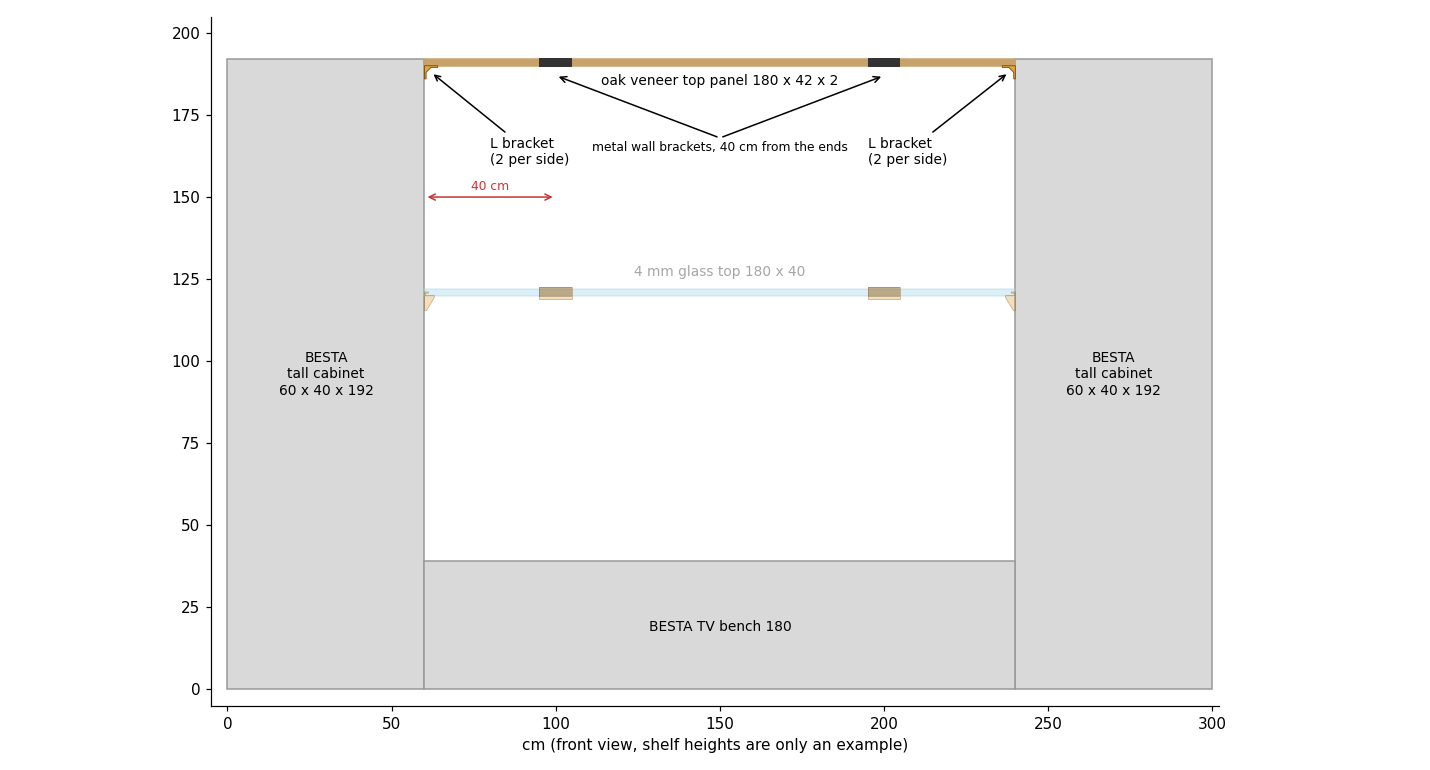
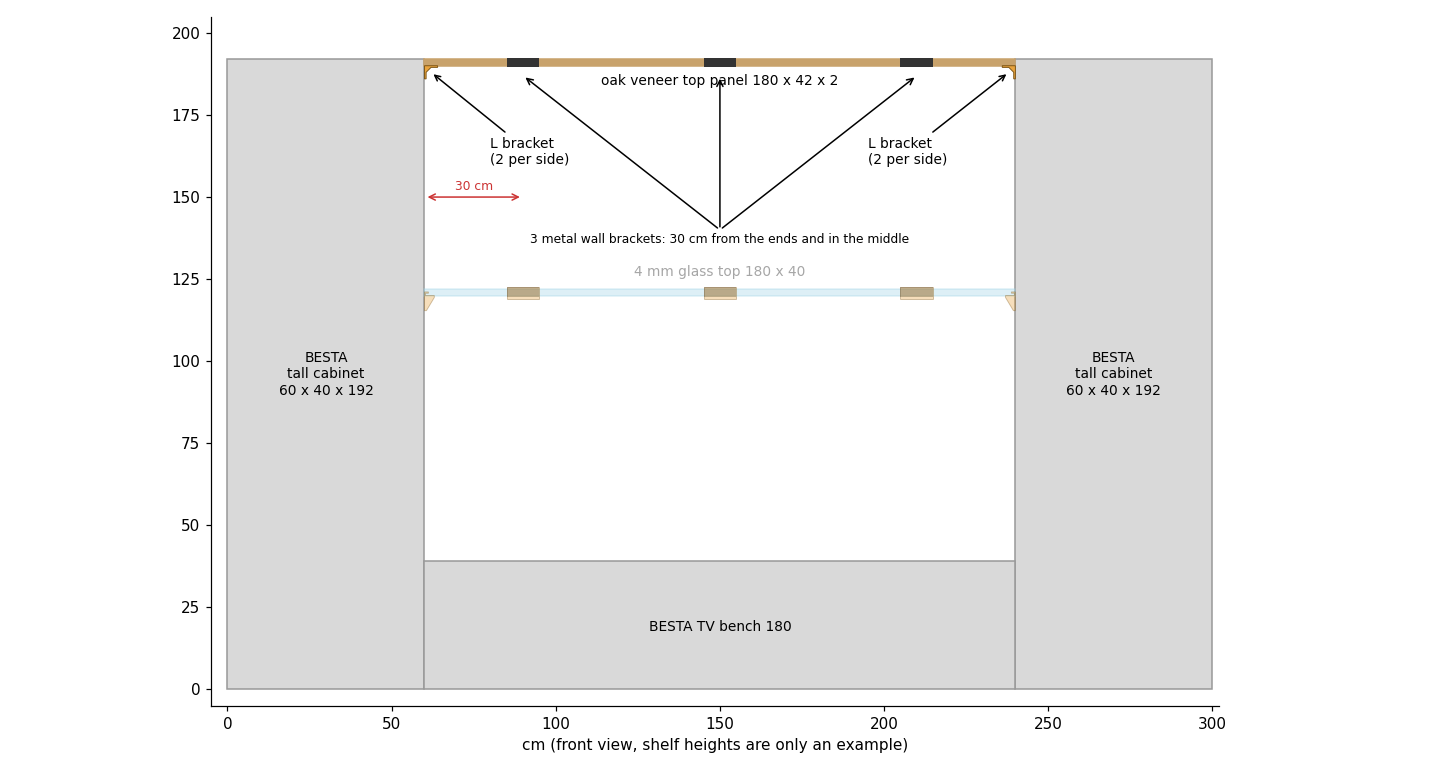
3 wall brackets per shelf, at 30 / 90 / 150 cm
The oak top panel will hold ~16 boxed consoles (~60-90 kg). Three
brackets 60 cm apart keep each one at ~22-29 kg and the panel straight,
with or without the cabinet-side brackets. The glass shelf uses the
same layout (3 anti-tip clips) so both match and use all 6 brackets.
The top panel README gets a load section: console weights, resin
anchors, heavy boxes at the back, anti-fall measures.

diff --git a/FreeCad/Besta Glass Shelf Support/glass_shelf_supports.py b/FreeCad/Besta Glass Shelf Support/glass_shelf_supports.py
@@ -228,7 +228,7 @@ check_fit(clip, ref, glass)
 doc.recompute()
 doc.saveAs(os.path.join(OUT_DIR, "glass_shelf_supports.FCStd"))
 
-for shape, name in ((side, "side_bracket_x2.stl"), (clip, "anti_tip_clip_x2.stl")):
+for shape, name in ((side, "side_bracket_x2.stl"), (clip, "anti_tip_clip_x3.stl")):
     m = Mesh.Mesh(shape.tessellate(0.05))
     m.write(os.path.join(OUT_DIR, name))
     print(name, "volume cm3:", round(shape.Volume / 1000, 1), "valid:", shape.isValid(),

diff --git a/FreeCad/Besta Glass Shelf Support/README.md b/FreeCad/Besta Glass Shelf Support/README.md
@@ -2,8 +2,8 @@
 
 Turns an IKEA **BESTÅ glass top panel (180 × 40 cm, 4 mm tempered glass)** into a floating shelf between two tall BESTÅ cabinets, above the BESTÅ TV bench. The glass is never drilled:
 
-- **It rests on 2 metal wall brackets.** They are flat-bar T brackets with 25 cm arms, placed 40 cm from each end, so the shelf stands on the wall alone.
-- **2 printed anti-tip clips hold its back edge.** Each is a frame that fits around a bracket's wall plate, flush with the wall and exactly as thick as the plate, with a lip over the back edge of the glass. A weight on the front edge (the arms are 25 cm, the glass is 40 cm deep) cannot tip the glass up.
+- **It rests on 3 metal wall brackets.** They are flat-bar T brackets with 25 cm arms, placed 30 cm from each end and one in the middle (every 60 cm), so the shelf stands on the wall alone. The oak top panel above uses the same layout, so the two shelves match and a 6-pack of brackets covers both.
+- **3 printed anti-tip clips hold its back edge.** Each is a frame that fits around a bracket's wall plate, flush with the wall and exactly as thick as the plate, with a lip over the back edge of the glass. A weight on the front edge (the arms are 25 cm, the glass is 40 cm deep) cannot tip the glass up.
 - **2 printed side brackets (sideways U) can hold its ends.** They are optional extras, bolted to the cabinet sides. If you ever need to move a cabinet, unbolt the U and the shelf stays up.
 
 ![Overview](overview.png)
@@ -12,7 +12,7 @@ Turns an IKEA **BESTÅ glass top panel (180 × 40 cm, 4 mm tempered glass)** int
 
 | File | Qty | What it is |
 |---|---|---|
-| `anti_tip_clip_x2.stl` | 2 | 121 mm frame that slides along the arm and around the wall plate of a metal bracket, flush with the wall, with a 5 mm lip over the back edge of the glass. It sticks out only ~21 mm from the wall, and its bottom is flush with the bottom of the arm: the metal bracket carries the glass, and the clip only stops the back edge from lifting. 2 M4 set screws from below lock it. |
+| `anti_tip_clip_x3.stl` | 3 | 121 mm frame that slides along the arm and around the wall plate of a metal bracket, flush with the wall, with a 5 mm lip over the back edge of the glass. It sticks out only ~21 mm from the wall, and its bottom is flush with the bottom of the arm: the metal bracket carries the glass, and the clip only stops the back edge from lifting. 2 M4 set screws from below lock it. |
 | `side_bracket_x2.stl` | 2 | Sideways U, 170 mm long, bolted to the cabinet side; the glass end slides into it. It is symmetric, so for the other side just rotate it 180°. |
 | `glass_shelf_supports.py` | – | Parametric FreeCAD script that generates everything. |
 | `glass_shelf_supports.FCStd` | – | FreeCAD model. |
@@ -27,9 +27,9 @@ The FreeCAD model also contains a reference model of the metal bracket (`Ref_Met
 
 | Qty | Item | Where |
 |---|---|---|
-| 2 | Flat-bar T shelf bracket, 25 cm arm (e.g. TESSTINA "concealed" 80 kg: wall plate 100 × 25 × 5 mm standing above a 40 × 5 mm arm, 3 countersunk holes) | wall |
-| 6 | Wall fixings for those brackets, see [Fixing into a thick stone wall](#fixing-into-a-thick-stone-wall) | bracket → wall |
-| 4 | M4 × 8 screw (any head) | clip set screws (2 per clip), self-tap into the plastic |
+| 3 | Flat-bar T shelf bracket, 25 cm arm (e.g. TESSTINA "concealed" 80 kg: wall plate 100 × 25 × 5 mm standing above a 40 × 5 mm arm, 3 countersunk holes) | wall |
+| 9 | Wall fixings for those brackets, see [Fixing into a thick stone wall](#fixing-into-a-thick-stone-wall) | bracket → wall |
+| 6 | M4 × 8 screw (any head) | clip set screws (2 per clip), self-tap into the plastic |
 | 6 | M4 × 35 countersunk bolt (ISO 10642 / DIN 7991) | side brackets → through the cabinet side |
 | 6 | M4 washer, wide (DIN 9021) | inside the cabinet |
 | 6 | M4 nyloc nut (DIN 985), or a plain nut with medium (blue) threadlocker | inside the cabinet |
@@ -63,10 +63,10 @@ The FreeCAD model also contains a reference model of the metal bracket (`Ref_Met
 
 ## Installation
 
-1. **Metal brackets.** Mount the 2 metal brackets on the wall **40 cm from each end of the shelf**, i.e. 100 cm apart and centered on the gap. The tops of both arms must be at exactly the same height: use a spirit level on each one and a long straight edge across both. Shelf height = top of the arm + 1 mm of felt.
+1. **Metal brackets.** Mount the 3 metal brackets on the wall **30 cm from each end of the shelf and one in the middle**, i.e. at 30, 90 and 150 cm (60 cm apart). The tops of all arms must be at exactly the same height: use a spirit level on each one and a long straight edge across all three. Shelf height = top of the arm + 1 mm of felt.
 2. **Clips.** Slide a clip along each arm until its frame goes around the wall plate and touches the wall. Then tighten the 2 M4 × 8 set screws from below, left and right of the arm: they press on the bottom edge of the wall plate and pull the frame down onto its top edge. Snug is enough: they only need to stop the clip from sliding.
 3. **Felt.** Stick felt tape on top of each arm and under each clip lip.
-4. **Side brackets (optional).** Lay the straight edge on the two arms and mark that height on both cabinet sides. The top of each side-bracket ledge goes exactly there, so all four supports are level. Center each bracket on the depth with the U opening toward the gap.
+4. **Side brackets (optional).** Lay the straight edge on the arms and mark that height on both cabinet sides. The top of each side-bracket ledge goes exactly there, so all five supports are level. Center each bracket on the depth with the U opening toward the gap.
    - **Drill:** use the bracket as a template and drill **4.5 mm** through the cabinet side at its 3 holes, with a scrap block clamped inside so the melamine doesn't chip.
    - **Bolt:** fit the countersunk bolts from the bracket side, and the washers and nuts inside the cabinet. Felt goes in the U too.
 5. **Glass.** Hold it level and slide it in from the front, under the clip lips (and into the U slots), until its back edge touches the clips. It should not rattle. If it does, use thicker felt, and if it is too tight, thinner felt (or change `PAD`).
@@ -95,8 +95,9 @@ Rough estimates of the sag of a 1.8 m shelf:
 | Support | 4 mm glass |
 |---|---|
 | Only at the ends (side brackets alone) | ~36 mm |
-| 2 brackets 30 cm from the ends | ~5 mm |
-| **2 brackets 40 cm from the ends** | **< 1 mm** (≈ 2 mm with 10 kg spread on top) |
+| 2 brackets 40 cm from the ends | < 1 mm (≈ 2 mm with 10 kg spread on top) |
+| **3 brackets at 30 / 90 / 150 cm + side brackets** | **< 0.3 mm**, even with 10 kg on top |
+| 3 brackets alone (cabinets moved) | ~1 mm with 10 kg on top |
 
 ## Changing the design
 

diff --git a/FreeCad/Besta Top Panel Brackets/README.md b/FreeCad/Besta Top Panel Brackets/README.md
@@ -2,7 +2,7 @@
 
 Fixes an IKEA **BESTÅ oak veneer top panel (180 × 42 × 2 cm, solid particleboard)** between two tall BESTÅ cabinets, for example flush with their tops:
 
-- **It is carried by 2 metal wall brackets.** They are flat-bar T brackets with 25 cm arms, 40 cm from each end, screwed up into the panel, so the panel stands on the wall alone.
+- **It is carried by 3 metal wall brackets.** They are flat-bar T brackets with 25 cm arms, 30 cm from each end and one in the middle (every 60 cm), screwed up into the panel, so the panel stands on the wall alone, even fully loaded with boxed consoles (see [Load](#load-boxed-consoles)).
 - **4 small printed L brackets lock its ends** to the cabinet sides: one leg is bolted to the cabinet, the other is screwed up into the panel. Nothing is visible from the front, and nothing sits between the panel end and the cabinet. To move a cabinet later, unbolt its two L brackets and the panel stays up.
 
 ![Overview](overview.png)
@@ -21,9 +21,9 @@ Fixes an IKEA **BESTÅ oak veneer top panel (180 × 42 × 2 cm, solid particlebo
 
 | Qty | Item | Where |
 |---|---|---|
-| 2 | Flat-bar T shelf bracket, 25 cm arm (e.g. TESSTINA "concealed" 80 kg) | wall |
-| 6 | Wall fixings for those brackets, see [Fixing into a thick stone wall](../Besta%20Glass%20Shelf%20Support/README.md#fixing-into-a-thick-stone-wall) | metal bracket → wall |
-| 4–6 | 3.5 × 16 countersunk chipboard screw | metal bracket arm → underside of the panel |
+| 3 | Flat-bar T shelf bracket, 25 cm arm (e.g. TESSTINA "concealed" 80 kg) | wall |
+| 9 | **Resin** wall fixings for those brackets, see [Fixing into a thick stone wall](../Besta%20Glass%20Shelf%20Support/README.md#fixing-into-a-thick-stone-wall) | metal bracket → wall |
+| 6–9 | 3.5 × 16 countersunk chipboard screw | metal bracket arm → underside of the panel |
 | 8 | M4 × 35 countersunk bolt (ISO 10642 / DIN 7991) | L brackets → through the cabinet side |
 | 8 | M4 washer, wide (DIN 9021) | inside the cabinet |
 | 8 | M4 nyloc nut (DIN 985), or a plain nut with medium (blue) threadlocker | inside the cabinet |
@@ -55,12 +55,34 @@ Stand each L bracket on its L profile (40 mm tall), so the layers follow the pro
 ## Installation
 
 1. **Mark the height.** For a panel flush with the cabinet tops (192 cm), the top of the metal arms and of the L brackets sits **20 mm below the cabinet top**. A 20 mm offcut of wood makes a good spacer.
-2. **Metal brackets.** Mount the 2 metal brackets on the wall **40 cm from each end of the gap** (100 cm apart), level with each other. Use a spirit level on each one and a long straight edge across both. See the stone wall notes for the fixings.
+2. **Metal brackets.** Mount the 3 metal brackets on the wall **30 cm from each end of the gap and one in the middle** (at 30, 90 and 150 cm, 60 cm apart), level with each other. Use a spirit level on each one and a long straight edge across all three. Use resin anchors (see the stone wall notes).
 3. **L brackets.** Use 2 per side, about **30 mm from the front and back edges** (see the plan view above), at the same height as the arms. Lay the straight edge on the arms to transfer it.
 4. **Drill the cabinet sides.** Use each L bracket as a template and drill **4.5 mm** through the cabinet side at its 2 holes. Clamp a scrap block inside so the melamine doesn't chip.
 5. **Bolt the L brackets.** Fit the countersunk bolts from the bracket side, and the washers and nuts inside the cabinet.
-6. **Lay the panel.** Rest the panel on the 2 arms and the 4 L brackets. Push it back against the wall plates and check that it is level and flush.
+6. **Lay the panel.** Rest the panel on the 3 arms and the 4 L brackets. Push it back against the wall plates and check that it is level and flush.
 7. **Screw from below.** Drill **2.5 mm** pilot holes into the panel through the holes of the arms and the L brackets. Wrap tape on the bit at **13 mm** as a depth stop, so you never come out through the veneer. Then drive the 3.5 × 16 screws.
+
+## Load: boxed consoles
+
+The panel is meant to display retro and modern consoles in their original boxes, standing upright, in 2 rows (front and back) and 2 high: about **16 boxes**. Rough boxed weights (console, PSU, controllers, inserts, box):
+
+| Retro | kg | Modern | kg |
+|---|---|---|---|
+| NES / SNES / N64 | ~2.3–2.5 | PS2 | ~3.5 |
+| GameCube / Wii | ~2.5 | PS4 | ~4.5 |
+| Master System / Mega Drive | ~2 | PS3 fat / PS5 | ~7 |
+| Saturn / Dreamcast / PS1 | ~2.5–3 | Xbox / 360 / One / Series X | ~6–6.5 |
+| Switch | ~1.8 | Wii U | ~3.5 |
+
+That is **~60–65 kg** for a typical mix and **~90 kg** if it is mostly modern consoles, plus the 12.8 kg panel.
+
+With 3 brackets (30 / 90 / 150 cm) and the L brackets, each metal bracket carries ~22–29 kg and the panel stays straight (stress ~0.3–0.4 MPa against ~11–14 MPa for particleboard). With only 2 brackets the panel would be fine too, but it would carry ~38–51 kg each and sag 5–9 mm over the months.
+
+**The weak point is the wall, not the panel.** The wall plate is only 25 mm tall, so it has little leverage: with the boxes centered ~20 cm from the wall, ~25 kg on a bracket pulls on its 3 screws with roughly **70–90 kg each**. So:
+
+- **Use resin anchors** for these 3 brackets, not plastic plugs, in the old stone wall.
+- **Put the heaviest boxes at the back and over the brackets.** Place PS3, PS5 and the Xboxes in the row against the wall, near the brackets, and the light retro boxes in front and between the brackets. The closer the weight is to the wall, the less the screws pull.
+- **Stop the boxes from falling.** Two boxes stacked upright reach ~60–80 cm above 192 cm, above the TV, and Emilia is an earthquake zone. Add a low lip along the front edge, or a dab of removable putty (e.g. Patafix) under the boxes, and check the clearance to the ceiling.
 
 ## How stiff is it?
 
@@ -69,8 +91,9 @@ Rough estimates of the sag of the 1.8 m panel:
 | Support | 20 mm oak top panel |
 |---|---|
 | Only at the ends (L brackets alone) | ~11 mm, more over time |
-| 2 brackets 30 cm from the ends | ~1.6 mm |
-| **2 brackets 40 cm from the ends** | **< 0.5 mm**, even with 10 kg on top |
+| 2 brackets 40 cm from the ends, 64 kg of consoles | ~5–7 mm after months |
+| **3 brackets at 30 / 90 / 150 cm + L brackets, 64–90 kg of consoles** | **< 1 mm** |
+| 3 brackets alone (cabinets moved), 64 kg of consoles | ~3 mm after months |
 
 ## Changing the design
 
